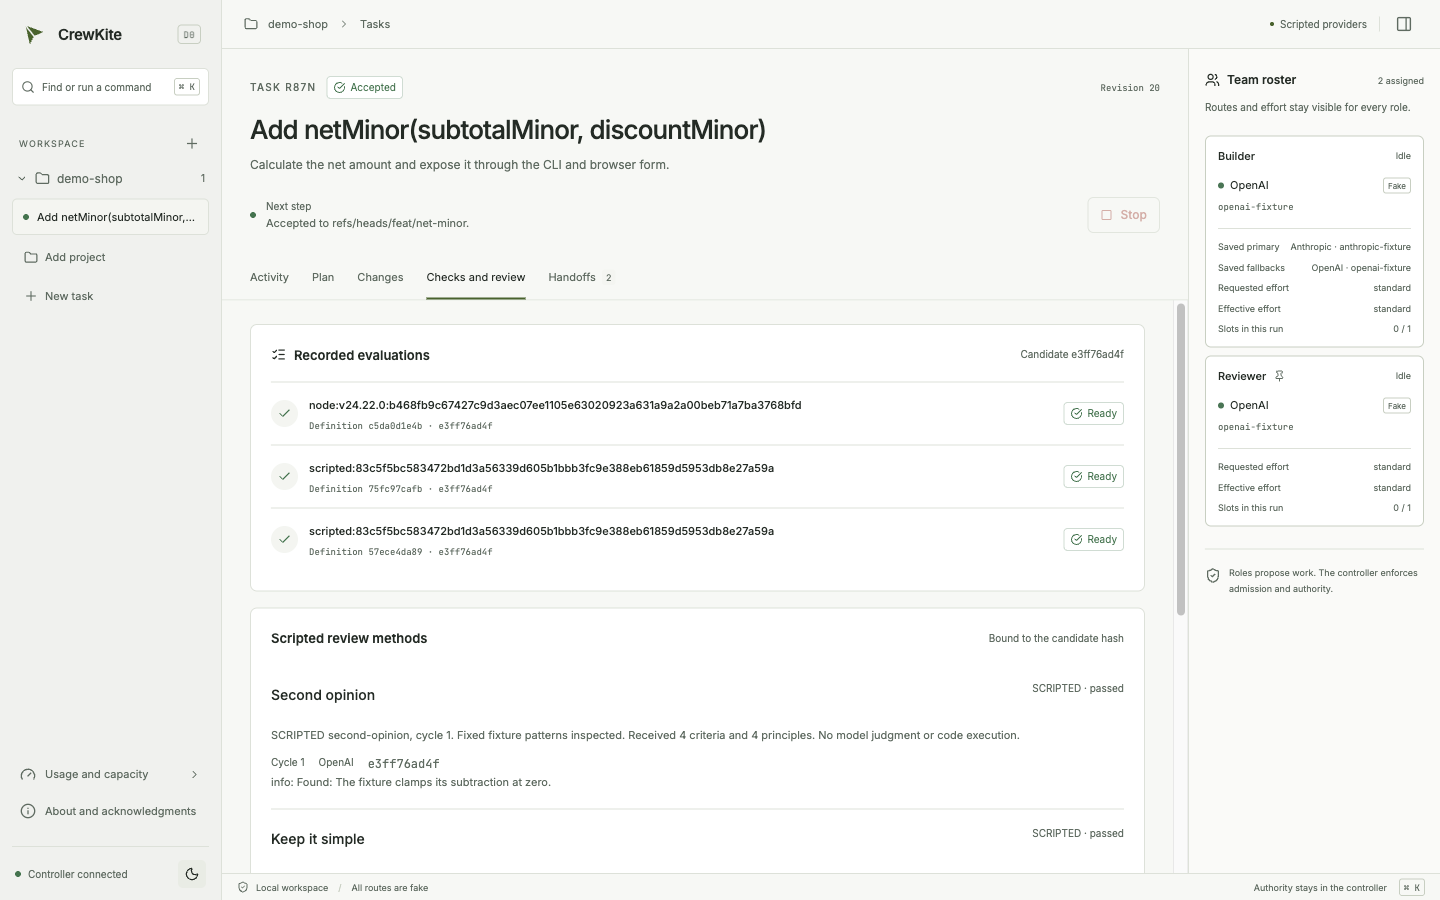
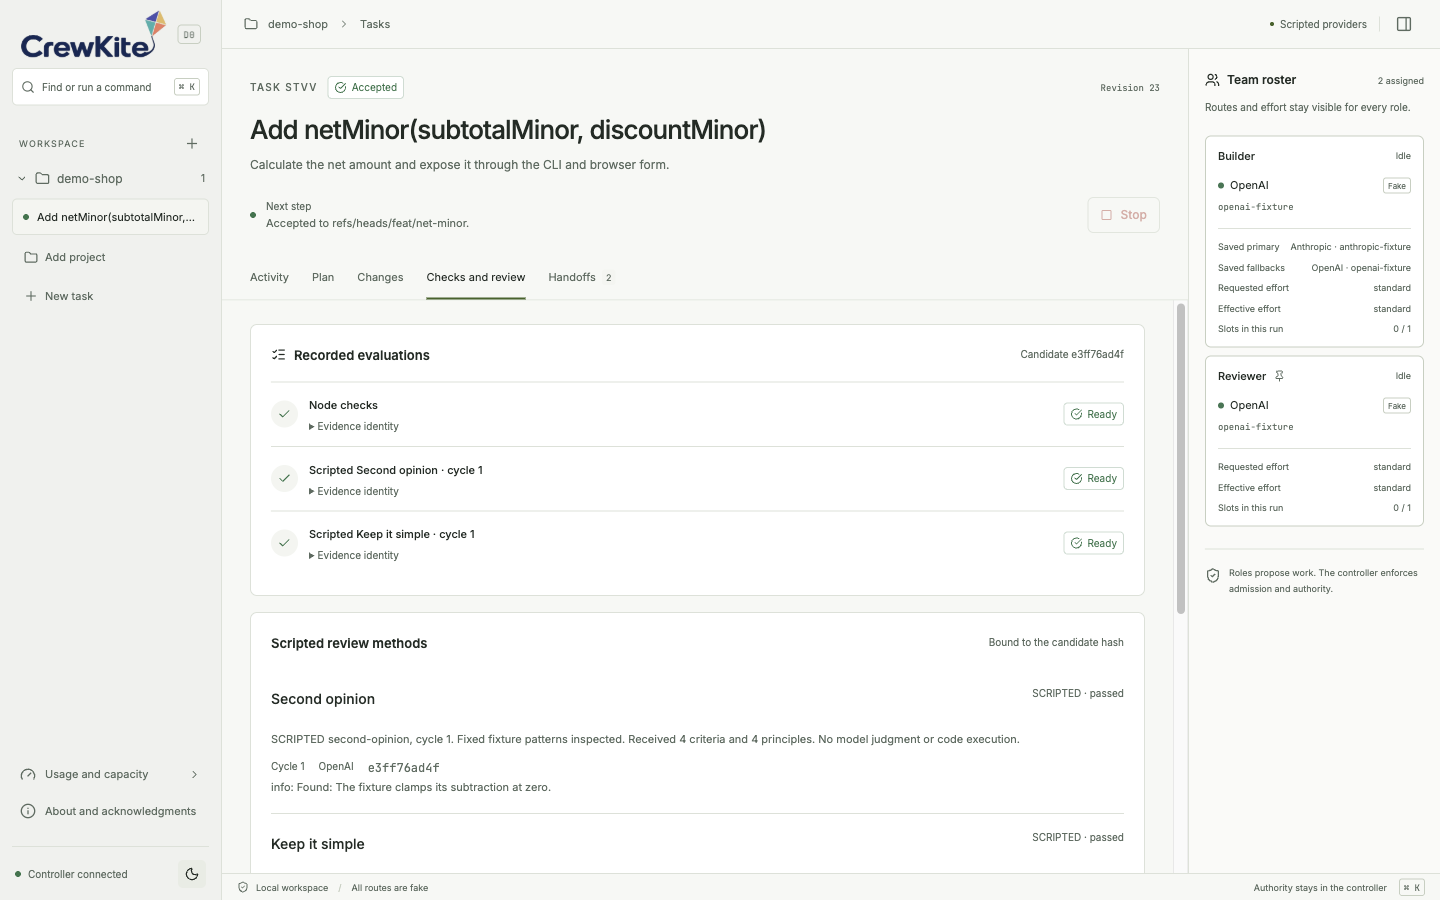
feat(desktop): add supplied branding and palette navigation
Add task selection and pending approval review to the command palette while keeping approval in the existing authority path. Apply the supplied wordmark in both themes and retain exact check identities behind readable labels.

The final source passes all 26 tests and required CI checks. Independent review covers navigation authority, asset integrity and the connected desktop views.

diff --git a/apps/desktop/src/renderer/app.tsx b/apps/desktop/src/renderer/app.tsx
@@ -41,7 +41,9 @@ import {
   Wallet,
   X,
 } from 'lucide-react';
-import { type FormEvent, type ReactNode, useEffect, useRef, useState } from 'react';
+import { type FormEvent, type ReactNode, type RefObject, useEffect, useRef, useState } from 'react';
+import wordmark from './assets/crewkite-wordmark.png';
+import inverseWordmark from './assets/crewkite-wordmark-inverse.png';
 import {
   Dialog,
   Fact,
@@ -178,6 +180,9 @@ export function App() {
   const [create, setCreate] = useState(false);
   const [launch, setLaunch] = useState(false);
   const [palette, setPalette] = useState(false);
+  const [palettePage, setPalettePage] = useState(0);
+  const [approvalToReview, setApprovalToReview] = useState<string | null>(null);
+  const approvalCard = useRef<HTMLElement>(null);
   const [about, setAbout] = useState(false);
   const task = snapshot?.tasks.find(({ id }) => id === selected) ?? snapshot?.tasks[0];
   const run = snapshot?.runs.find(({ id }) => id === task?.runId);
@@ -185,6 +190,15 @@ export function App() {
     (value) => value.taskId === task?.id && value.status === 'pending',
   );
   const taskEvents = workspace.events.filter((event) => event.taskId === task?.id);
+  const taskCount = snapshot?.tasks.length ?? 0;
+  const taskPage = Math.min(palettePage, Math.max(0, Math.ceil(taskCount / 5) - 1));
+  const taskOffset = taskPage * 5;
+  useEffect(() => {
+    if (palette || !approvalToReview) return;
+    if (page === 'tasks' && tab === 'Activity' && approval?.approvalId === approvalToReview)
+      approvalCard.current?.focus();
+    setApprovalToReview(null);
+  }, [palette, page, tab, approval?.approvalId, approvalToReview]);
   useEffect(() => {
     document.documentElement.dataset.theme = theme;
     localStorage.setItem('crewkite-theme', theme);
@@ -219,13 +233,13 @@ export function App() {
           onClick={() => setAbout(true)}
           aria-label="About CrewKite"
         >
-          <span className="brand-mark">
-            <svg viewBox="0 0 24 24" aria-hidden="true">
-              <path d="M4 4 21 10 12 14 8 22 4 4Z" fill="currentColor" />
-              <path d="m4 4 8 10" stroke="var(--sidebar)" strokeWidth="1.5" />
-            </svg>
-          </span>
-          <span>CrewKite</span>
+          <img
+            className="brand-wordmark"
+            src={theme === 'light' ? wordmark : inverseWordmark}
+            alt="CrewKite"
+            width={1024}
+            height={341}
+          />
           <span className="prototype-tag">D0</span>
         </button>
         <button type="button" className="search-button" onClick={() => setPalette(true)}>
@@ -565,7 +579,12 @@ export function App() {
                     {tab === 'Activity' && (
                       <>
                         {approval && (
-                          <ApprovalCard approval={approval} task={task} workspace={workspace} />
+                          <ApprovalCard
+                            approval={approval}
+                            task={task}
+                            workspace={workspace}
+                            focusRef={approvalCard}
+                          />
                         )}
                         <ActivityView events={taskEvents} task={task} snapshot={snapshot} />
                       </>
@@ -660,6 +679,17 @@ export function App() {
                 },
               },
               {
+                label: 'Review pending approval',
+                icon: <ShieldCheck size={17} />,
+                disabled: !approval,
+                action: () => {
+                  if (!approval) return;
+                  setPage('tasks');
+                  setTab('Activity');
+                  setApprovalToReview(approval.approvalId);
+                },
+              },
+              {
                 label: 'Stop current run',
                 icon: <Square size={15} />,
                 action: stop,
@@ -685,6 +715,50 @@ export function App() {
                 <ArrowRight size={14} />
               </button>
             ))}
+            {taskCount > 0 && (
+              <>
+                <p className="muted small">
+                  Tasks {taskOffset + 1}-{Math.min(taskOffset + 5, taskCount)} of {taskCount}
+                </p>
+                {snapshot?.tasks.slice(taskOffset, taskOffset + 5).map((value) => (
+                  <button
+                    type="button"
+                    key={value.id}
+                    onClick={() => {
+                      setSelected(value.id);
+                      setPage('tasks');
+                      setTab('Activity');
+                      setPalette(false);
+                    }}
+                  >
+                    <FileCode size={17} />
+                    Open task: {value.title} ·{' '}
+                    {snapshot.projects.find(({ id }) => id === value.projectId)?.name ??
+                      value.projectId}{' '}
+                    · {value.id.slice(-6)}
+                    <ArrowRight size={14} />
+                  </button>
+                ))}
+                {taskCount > 5 && (
+                  <div className="button-row">
+                    <button
+                      type="button"
+                      disabled={taskPage === 0}
+                      onClick={() => setPalettePage(taskPage - 1)}
+                    >
+                      Previous tasks
+                    </button>
+                    <button
+                      type="button"
+                      disabled={taskOffset + 5 >= taskCount}
+                      onClick={() => setPalettePage(taskPage + 1)}
+                    >
+                      Next tasks
+                    </button>
+                  </div>
+                )}
+              </>
+            )}
           </div>
         </Dialog>
       )}
@@ -696,10 +770,12 @@ function ApprovalCard({
   approval,
   task,
   workspace,
+  focusRef,
 }: {
   approval: Approval;
   task: Task;
   workspace: Workspace;
+  focusRef?: RefObject<HTMLElement | null>;
 }) {
   function resolve(decision: 'approved' | 'denied') {
     const binding = {
@@ -720,7 +796,7 @@ function ApprovalCard({
       .catch(() => {});
   }
   return (
-    <section className="approval-card" aria-label="Pending approval">
+    <section className="approval-card" aria-label="Pending approval" ref={focusRef} tabIndex={-1}>
       <div className="approval-title">
         <span className="approval-symbol">
           <ShieldCheck size={18} />
@@ -1270,11 +1346,20 @@ function Checks({
                 <span className={`result-symbol ${value.passed ? 'passed' : 'failed'}`}>
                   {value.passed ? <Check size={14} /> : <X size={14} />}
                 </span>
-                <div>
-                  <strong>{value.evaluator}</strong>
-                  <code>
-                    Definition {short(value.definitionHash)} · {short(value.candidateHash)}
-                  </code>
+                <div className="evidence-copy">
+                  <strong>
+                    {value.review
+                      ? `Scripted ${titleCase(value.review.job.methodId.replaceAll('-', ' '))} · cycle ${value.review.job.cycle}`
+                      : value.evaluator.startsWith('node:')
+                        ? 'Node checks'
+                        : 'Recorded check'}
+                  </strong>
+                  <details>
+                    <summary>Evidence identity</summary>
+                    <code>Evaluator {value.evaluator}</code>
+                    <code>Definition {value.definitionHash}</code>
+                    <code>Candidate {value.candidateHash}</code>
+                  </details>
                 </div>
                 <StateChip state={value.passed ? 'ready' : 'failed'} />
               </div>

diff --git a/apps/desktop/src/renderer/style.css b/apps/desktop/src/renderer/style.css
@@ -313,19 +313,18 @@ td:first-child .provider-dot {
   font-weight: 600;
   letter-spacing: -0.35px;
 }
-.brand-mark {
-  display: grid;
-  place-items: center;
-  width: 28px;
-  height: 28px;
-  color: var(--accent);
-}
-.brand-mark svg {
-  width: 25px;
-  height: 25px;
+.brand-wordmark {
+  display: block;
+  flex: 1;
+  min-width: 0;
+  max-width: 148px;
+  height: 50px;
+  object-fit: contain;
+  object-position: left center;
 }
 .prototype-tag {
   margin-left: auto;
+  flex-shrink: 0;
   font-family: "JetBrains Mono", monospace;
   font-size: 9px;
   letter-spacing: 0.3px;
@@ -1381,11 +1380,21 @@ kbd {
   font-size: 11px;
   font-weight: 500;
 }
+.evidence-copy {
+  flex: 1;
+  min-width: 0;
+}
+.evidence-list summary {
+  margin-top: 5px;
+  font-size: 10px;
+  color: var(--text-dim);
+}
 .evidence-list code {
   display: block;
   margin-top: 5px;
   font-size: 9px;
   color: var(--text-dim);
+  overflow-wrap: anywhere;
 }
 .evidence-list .state-chip {
   margin-left: auto;

diff --git a/README.md b/README.md
@@ -1,5 +1,10 @@
 # CrewKite
 
+<picture>
+  <source media="(prefers-color-scheme: dark)" srcset="apps/desktop/src/renderer/assets/crewkite-wordmark-inverse.png">
+  <img src="apps/desktop/src/renderer/assets/crewkite-wordmark.png" alt="CrewKite" width="320" height="107">
+</picture>
+
 CrewKite is a desktop workspace and CLI for coding with local models and the official coding clients from OpenAI, Anthropic and Google in one place. It shows what each subscription reports about usage and reset windows, assigns work using those limits, and keeps every task recoverable so another provider can continue it when one stops mid-task.
 
 Status: early prototype. The first milestone runs the whole journey against scripted fake providers. No live provider route is qualified yet.
@@ -26,6 +31,17 @@ Interface preview with fixture data; controller integration is in progress.
 ![Dark workspace preview](docs/images/workspace-dark.png)
 
 ![Light workspace preview](docs/images/workspace-light.png)
+
+<details>
+<summary>Keyboard navigation</summary>
+
+Press `Cmd+K` to open the command palette. Saved tasks show their project and task ID suffix, with five tasks per page. Previous and Next keep the rest reachable.
+
+Review pending approval opens the existing approval card and focuses its review region. Read the exact target and consequence, then choose Approve once or Deny as a separate action. `Escape` closes the palette and dialogs. Arrow keys move between task and launch tabs.
+
+![Command palette with scripted tasks and a pending approval](docs/images/command-palette.png)
+
+</details>
 
 ## How it fits together
 
